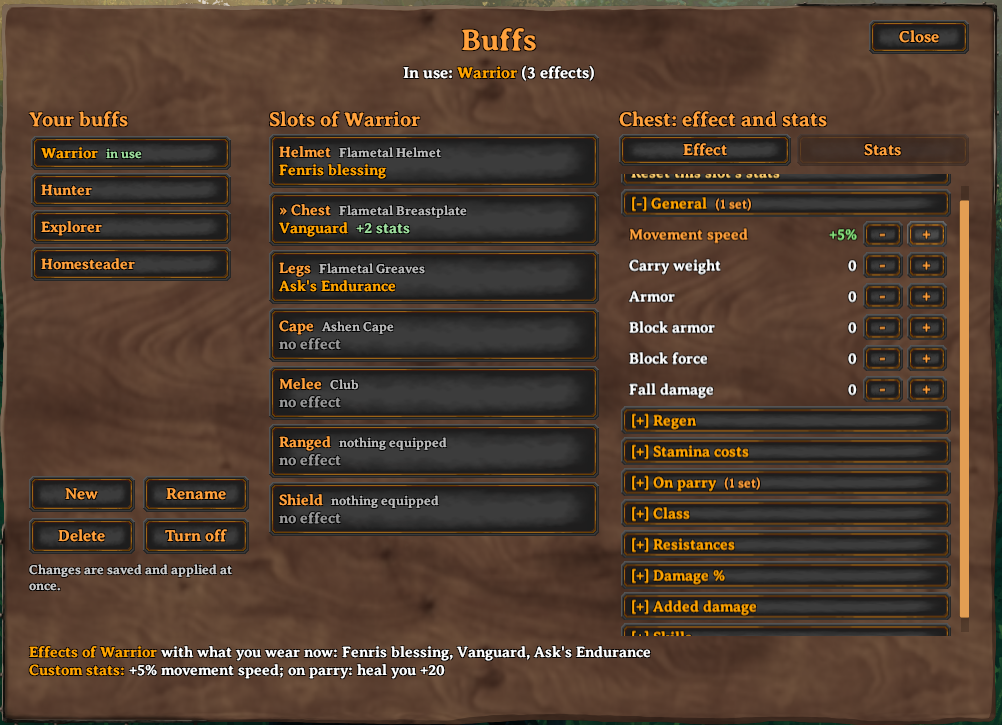
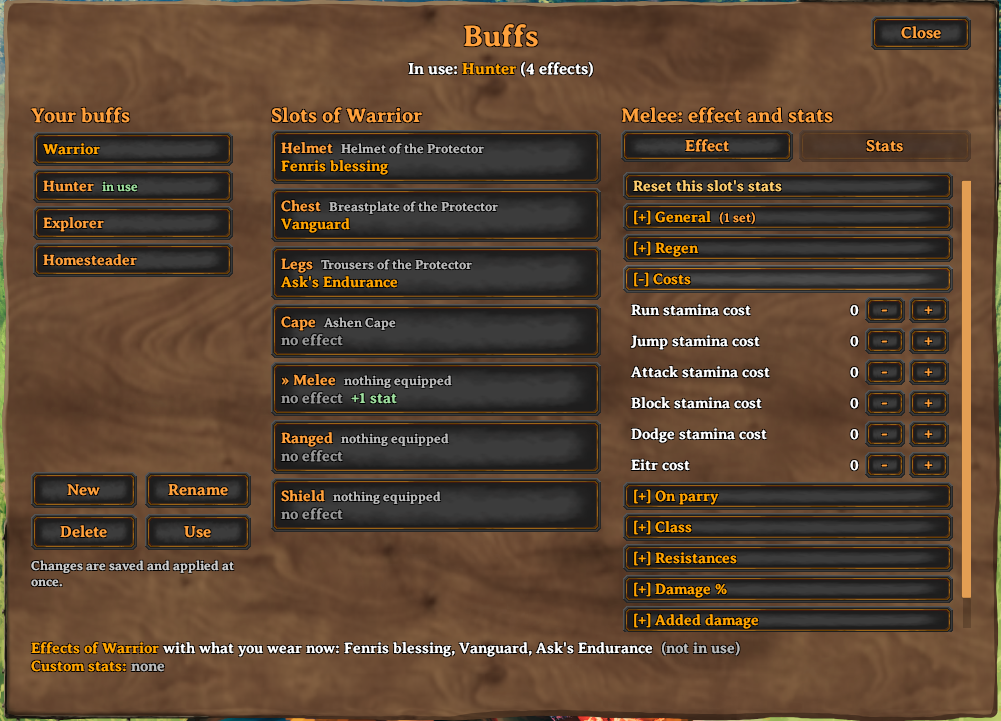
docs: stats screenshot shows the Costs group (was Stamina costs)

diff --git a/package/README.md b/package/README.md
@@ -41,7 +41,7 @@ A buff gives each slot (helmet, chest, legs, cape, melee, ranged, shield) an ext
   lightning) does nothing to wood or stone. To make it work, add blunt, slash or other physical damage under *Added
   damage* on the Ranged slot (e.g. +10 pierce). Digging the ground stays a pickaxe thing.
 
-![Custom stats of a slot: General](https://raw.githubusercontent.com/algo7/LoadoutBuffs/main/images/stats-general.png)
+![Custom stats of a slot: Costs](https://raw.githubusercontent.com/algo7/LoadoutBuffs/main/images/stats-general.png)
 ![On parry: heal, stamina, bubble health and time, reach](https://raw.githubusercontent.com/algo7/LoadoutBuffs/main/images/stats-on-parry.png)
 
 ![The buff in use on the HUD, followed by its effects](https://raw.githubusercontent.com/algo7/LoadoutBuffs/main/images/hud-buff.png)
